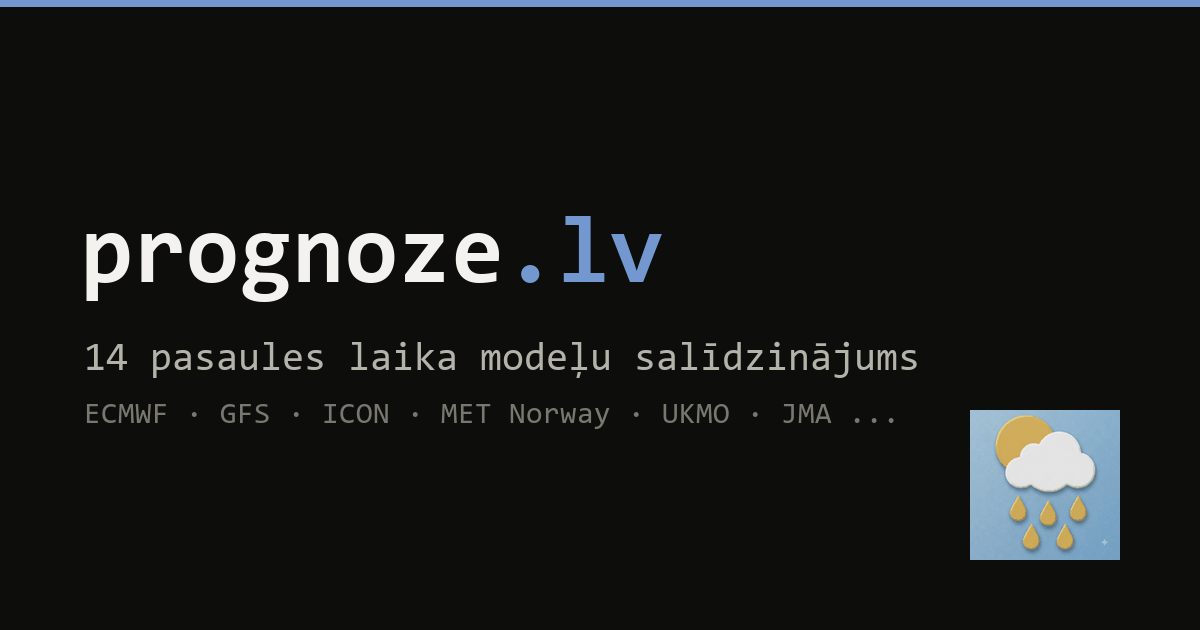
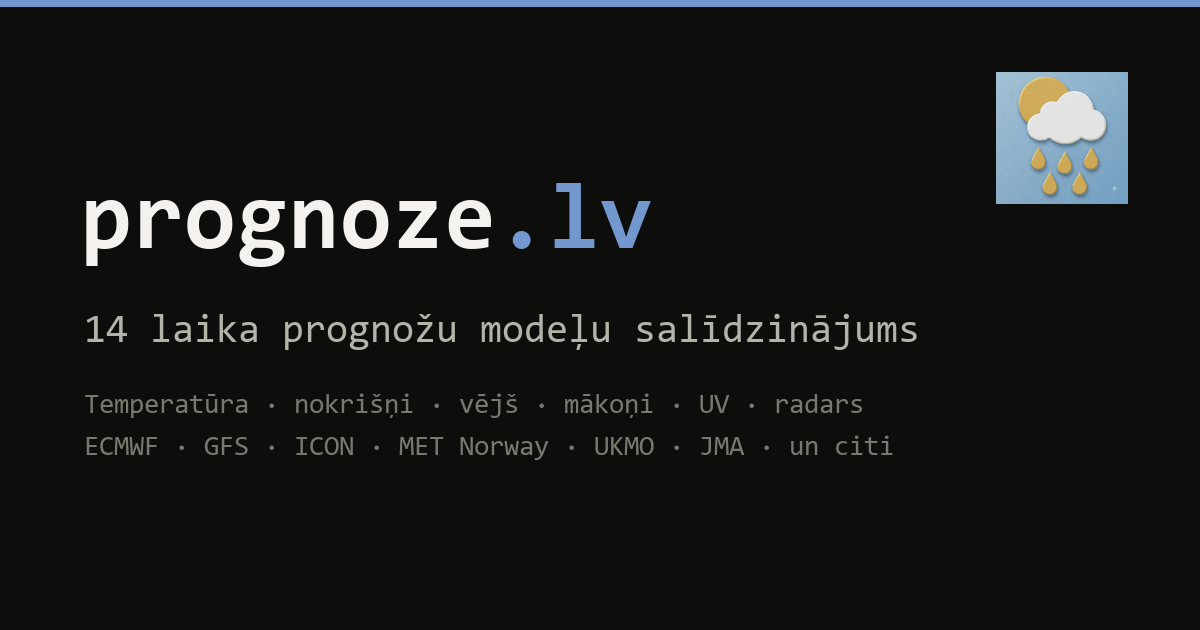
Make share-preview text informative instead of 'domain - slogan'
og:title / twitter:title now describe what the site is ('14 laika prognožu modeļi vienā skatā'); descriptions spell out that these are meteorological-service forecast models and list what you can compare. OG image reworded to '14 laika prognožu modeļu salīdzinājums' with a feature line. Brand name prognoze.lv kept.

diff --git a/index.html b/index.html
@@ -3,10 +3,10 @@
 <head>
 <meta charset="UTF-8">
 <meta name="viewport" content="width=device-width, initial-scale=1.0">
-<title>prognoze.lv - laika prognoze</title>
-<meta name="description" content="Bezmaksas meteoroloģiskās prognozes vietne - 14 pasaules vadošo laikapstākļu modeļu salīdzinājums.">
-<meta property="og:title" content="prognoze.lv - laika modeļu salīdzinājums">
-<meta property="og:description" content="14 pasaules vadošo laikapstākļu modeļu prognozes vienā vietnē. ECMWF, GFS, ICON, MET Norway un citi.">
+<title>prognoze.lv - 14 laika prognožu modeļu salīdzinājums</title>
+<meta name="description" content="prognoze.lv salīdzina 14 pasaules meteoroloģisko dienestu prognožu modeļus (ECMWF, GFS, ICON, MET Norway u.c.) vienuviet: temperatūra, nokrišņi, vējš, mākoņi, UV, nokrišņu radars un Latvijas meteostacijas. Bez maksas.">
+<meta property="og:title" content="14 laika prognožu modeļi vienā skatā">
+<meta property="og:description" content="prognoze.lv salīdzina 14 pasaules meteoroloģisko dienestu prognožu modeļus — ECMWF, GFS, ICON, MET Norway un citus. Redzi, kur tie sakrīt un kur atšķiras: temperatūra, nokrišņi, vējš, radars un Latvijas meteostacijas.">
 <meta property="og:type" content="website">
 <meta property="og:url" content="https://artuursg.github.io/METEO/">
 <meta property="og:site_name" content="prognoze.lv">
@@ -14,10 +14,10 @@
 <meta property="og:image" content="https://artuursg.github.io/METEO/og-image.png">
 <meta property="og:image:width" content="1200">
 <meta property="og:image:height" content="630">
-<meta property="og:image:alt" content="prognoze.lv - 14 laika modeļu salīdzinājums">
+<meta property="og:image:alt" content="prognoze.lv - 14 laika prognožu modeļu salīdzinājums">
 <meta name="twitter:card" content="summary_large_image">
-<meta name="twitter:title" content="prognoze.lv - laika modeļu salīdzinājums">
-<meta name="twitter:description" content="14 pasaules vadošo laikapstākļu modeļu prognozes vienā vietnē.">
+<meta name="twitter:title" content="14 laika prognožu modeļi vienā skatā">
+<meta name="twitter:description" content="prognoze.lv salīdzina 14 pasaules meteoroloģisko dienestu prognožu modeļus — ECMWF, GFS, ICON, MET Norway un citus, vienuviet un bez maksas.">
 <meta name="twitter:image" content="https://artuursg.github.io/METEO/og-image.png">
 <meta name="theme-color" content="#0d0d0c">
 <link rel="icon" type="image/svg+xml" href="favicon.svg">
